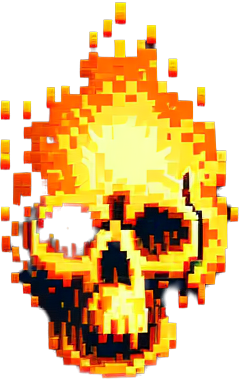
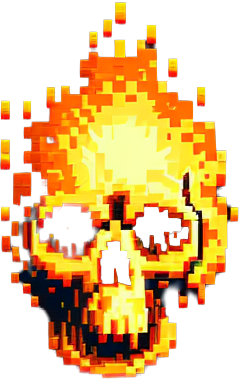
Added some JUICE! New Splash screen, used runwayml.com to expand the image.

Changed region(s): [[0.5542, 0.5224, 0.7875, 0.6675], [0.4083, 0.6385, 0.5542, 0.7546]]

diff --git a/Game/Component/ScoreAttractorComponent.cs b/Game/Component/ScoreAttractorComponent.cs
@@ -1,11 +1,17 @@
 using Godot;
 using GodotUtilities;
+using SampleGodotCSharpProject.Game.Autoload;
 using SampleGodotCSharpProject.Game.Entity;
+using SampleGodotCSharpProject.Game.Extension;
+using SampleGodotCSharpProject.Game.Manager;
 
 namespace SampleGodotCSharpProject.Game.Component
 {
     public partial class ScoreAttractorComponent : BaseComponent
     {
+        [Export]
+        public float Duration = 2.0f;
+
         private Node2D _fireball;
         private Node2D _node;
         private Vector2 _nodeInitialGlobalPos;
@@ -22,16 +28,35 @@ namespace SampleGodotCSharpProject.Game.Component
                     this,
                     nameof(Amount),
                     1.0f,
-                    1.5f)
-                .SetTrans(Tween.TransitionType.Back).SetEase(Tween.EaseType.In);
-            tween.Parallel()
-                .TweenProperty(
+                    Duration)
+                .SetTrans(Tween.TransitionType.Back)
+                .SetEase(Tween.EaseType.In);
+            tween.Parallel().TweenProperty(
                     _node,
-                    "modulate",
-                    Colors.Transparent,
-                    2.5f)
+                    "rotation",
+                    Mathf.Pi * 7.0,
+                    Duration)
                 .SetTrans(Tween.TransitionType.Expo)
                 .SetEase(Tween.EaseType.In);
+
+            tween.TweenProperty(
+                    _fireball,
+                    "modulate",
+                    Colors.White,
+                    0.25f)
+                .From(this.IntensifyColor(Colors.Magenta, 2.3f))
+                .SetTrans(Tween.TransitionType.Linear)
+                .SetEase(Tween.EaseType.In);
+            tween.Parallel().TweenProperty(
+                    _fireball,
+                    "scale",
+                    Vector2.One,
+                    0.25f)
+                .From(Vector2.One * 1.2f)
+                .SetTrans(Tween.TransitionType.Linear)
+                .SetEase(Tween.EaseType.In);
+            tween.Parallel().TweenCallback(Callable.From(GameEvents.EmitPlayerHit));
+
             tween.TweenCallback(Callable.From(QueueFree));
         }
 

diff --git a/Game/Autoload/GameEvents.cs b/Game/Autoload/GameEvents.cs
@@ -21,6 +21,9 @@ namespace SampleGodotCSharpProject.Game.Autoload
         [Signal]
         public delegate void ZombieSpawnedEventHandler(Zombie zombie);
 
+        [Signal]
+        public delegate void PlayerHitEventHandler();
+
         public static GameEvents Instance { get; private set; }
 
         public override void _Notification(int what)
@@ -51,6 +54,10 @@ namespace SampleGodotCSharpProject.Game.Autoload
         public static void EmitSpawnZombie(Zombie zombie)
         {
             Instance.EmitSignal(SignalName.ZombieSpawned, zombie);
+        }
+        public static void EmitPlayerHit()
+        {
+            Instance.EmitSignal(SignalName.PlayerHit);
         }
     }
 }

diff --git a/Game/Component/ExplosionComponent.cs b/Game/Component/ExplosionComponent.cs
@@ -27,7 +27,7 @@ namespace SampleGodotCSharpProject.Game.Component
 
             if (GetParent() is Zombie node)
             {
-                node.MoveToFront();
+                node.ZIndex = 2;
                 node.Modulate = this.IntensifyColor(Colors.DarkMagenta, 2.3f);
                 node.GetFirstNodeOfType<FacingComponent>()?.SetEnabled(false);
                 node.GetFirstNodeOfType<FollowPlayerComponent>()?.SetEnabled(false);

diff --git a/UI/ZombieCounter.cs b/UI/ZombieCounter.cs
@@ -14,6 +14,12 @@ namespace SampleGodotCSharpProject.UI
                 _totalZombies += 1;
                 Text = $"Zombies: {_totalZombies}";
             };
+            
+            GameEvents.Instance.ZombieKilled += _ =>
+            {
+                _totalZombies -= 1;
+                Text = $"Zombies: {_totalZombies}";
+            };
         }
     }
 }
